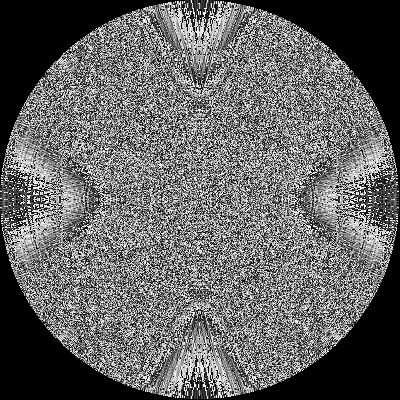
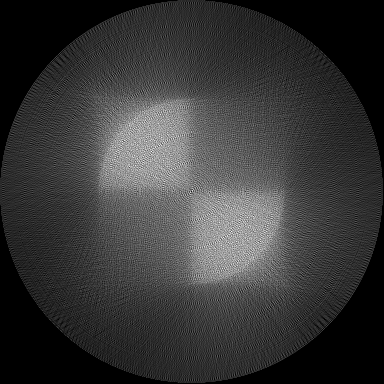
interval bez radianow

diff --git a/tomograf.py b/tomograf.py
@@ -7,7 +7,7 @@ from bresenham import bresenham
 # interval - angle between detectors
 # step - angle while model is moving on circle (alfa)
 
-imgOriginal = cv2.imread("Foto/Kolo.jpg")
+imgOriginal = cv2.imread("Foto/Kwadraty2.jpg")
 image_height, image_width, idontcare = imgOriginal.shape
 
 def runParallelModel(N_detectors_and_emiters, interval, step):
@@ -15,24 +15,24 @@ def runParallelModel(N_detectors_and_emiters, interval, step):
     radius = calculateRadius() - 1
     offset = round(radius)
     alfa = 90  # 1
-    interval_in_radians = math.pi / (180 / interval)
+    interval_in_radians = math.radians(interval)
     detector_cords = []
     emiter_cords = []
     matrix = []
-    newImage = image
+    newImage = []
 
     #for i in range(4):
     #(int(360/step))
     for i in range(int(360/step)):
-        alfa_in_radians = math.pi / (180 / alfa)
-        count_emiters_and_detectors_position(emiter_cords, detector_cords, radius, interval_in_radians, alfa_in_radians, N_detectors_and_emiters, offset)
+        alfa_in_radians = math.radians(alfa)
+        count_emiters_and_detectors_position(emiter_cords, detector_cords, radius, interval, alfa_in_radians, N_detectors_and_emiters, offset)
         #change_image(image, emiter_cords, [120, 120, 120])
         #change_image(image, detector_cords, [50, 100, 220])
         new_row_in_matrix(emiter_cords, detector_cords, matrix, image, N_detectors_and_emiters)
         detector_cords = []
         emiter_cords = []
         alfa = alfa + step
-    normalize_each_element(matrix, N_detectors_and_emiters)
+    normalize_each_element(matrix)
 
     cv2.imshow("changed", image)
     cv2.waitKey(0)
@@ -40,25 +40,29 @@ def runParallelModel(N_detectors_and_emiters, interval, step):
     cv2.imwrite("sinogram.png",np.array(matrix))
 
     for x in range(image_width):
+        lista = []
         for y in range(image_height):
-            newImage[y][x] = [0, 0, 0]
+            lista.append([0,0,0])
+        newImage.append(lista)
+    print(newImage[0])
 
     detector_cords = []
     emiter_cords = []
     alfa = 90
     for i in range(int(360/step)):
         alfa_in_radians = math.pi / (180 / alfa)
-        count_emiters_and_detectors_position(emiter_cords, detector_cords, radius, interval_in_radians, alfa_in_radians, N_detectors_and_emiters, offset)
+        count_emiters_and_detectors_position(emiter_cords, detector_cords, radius, interval, alfa_in_radians, N_detectors_and_emiters, offset)
         #change_image(image, emiter_cords, [120, 120, 120])
         #change_image(image, detector_cords, [50, 100, 220])
         reconstruct(emiter_cords, detector_cords, matrix[i], newImage, N_detectors_and_emiters)
         detector_cords = []
         emiter_cords = []
         alfa = alfa + step
-
+        print(i)
     # filter do odszumienia potrzebny
     # potem convolve czyli splot, tylko nie wiem czy sinogramu z filtrem czy juz odtworzonego obrazu z filtrem
-    filter = get_filter(N_detectors_and_emiters)
+    #filter = get_filter(N_detectors_and_emiters)
+    normalize_each_element(newImage)
     cv2.imshow("reconstructed", np.array(newImage))
     cv2.imwrite("reconstructed.png",np.array(newImage))
     cv2.waitKey(0)
@@ -105,6 +109,10 @@ def reconstruct(emiter_cords, detector_cords, row, newImage, N_detectors_and_emi
             y_direction = -1
             dy = y1 - y2
         # image[y_actual, x_actual] = [200, 100, 50]
+        """value = [10,10,10]
+        if newImage[y_actual][x_actual][0] < row[i][0]:
+            value = [-x for x in value]
+        newImage[y_actual][x_actual] = increment_value_in_row(newImage[y_actual][x_actual], value)"""
         newImage[y_actual][x_actual] = increment_value_in_row(newImage[y_actual][x_actual], row[i])
         count += 1
         if (dx > dy):
@@ -120,8 +128,8 @@ def reconstruct(emiter_cords, detector_cords, row, newImage, N_detectors_and_emi
                 else:
                     e += b
                     x_actual += x_direction
-                    newImage[y_actual][x_actual] = increment_value_in_row(newImage[y_actual][x_actual], row[i])
                 # image[y_actual, x_actual] = [200, 100, 50]
+                newImage[y_actual][x_actual] = increment_value_in_row(newImage[y_actual][x_actual], row[i])
 
         else:
             a = (dx - dy) * 2
@@ -176,7 +184,7 @@ def new_row_in_matrix(emiter_cords, detector_cords, matrix, image, N_detectors_a
         else:
             y_direction = -1
             dy = y1 - y2
-        #image[y_actual, x_actual] = [200, 100, 50]
+        # image[y_actual, x_actual] = [200, 100, 50]
         row[i] = increment_value_in_row(row[i], image[y_actual, x_actual])
         count += 1
         if (dx > dy):
@@ -193,7 +201,7 @@ def new_row_in_matrix(emiter_cords, detector_cords, matrix, image, N_detectors_a
                     e += b
                     x_actual += x_direction
                 row[i] = increment_value_in_row(row[i], image[y_actual, x_actual])
-                #image[y_actual, x_actual] = [200, 100, 50]
+                # image[y_actual, x_actual] = [200, 100, 50]
 
         else:
             a = (dx - dy) * 2
@@ -209,7 +217,7 @@ def new_row_in_matrix(emiter_cords, detector_cords, matrix, image, N_detectors_a
                     e += b
                     y_actual += y_direction
                 row[i] = increment_value_in_row(row[i], image[y_actual, x_actual])
-                #image[y_actual, x_actual] = [200, 100, 50]
+                # image[y_actual, x_actual] = [200, 100, 50]
         #tab_of_counts.append(count)
     #make_average(row, tab_of_counts)
 
@@ -242,7 +250,7 @@ def make_average(row, count):
     for r in range(len(row)):
         for i in range(sums):
           #  print("1")
-          #  print(row[r])
+          #  print(row  [r])
             row[r][i] = int(round(row[r][i] / count[r]))
          #   print("2")
           #  print(row[r])
@@ -258,7 +266,7 @@ def maxColors(matrix):
                 maxValues[color]=temp
     return maxValues
 
-def normalize_each_element( matrix, N_detectors_and_emiters ):
+def normalize_each_element( matrix ):
     #print(matrix)
     maxValues=maxColors(matrix)
     normalize_value = 255
@@ -282,6 +290,6 @@ def get_filter(N_detectors_and_emiters):
 
 
 #N_detectors_and_emiters, interval, step
-runParallelModel(100, 20, 2)
+runParallelModel(100, 2, 1)
 
 cv2.waitKey(0)
